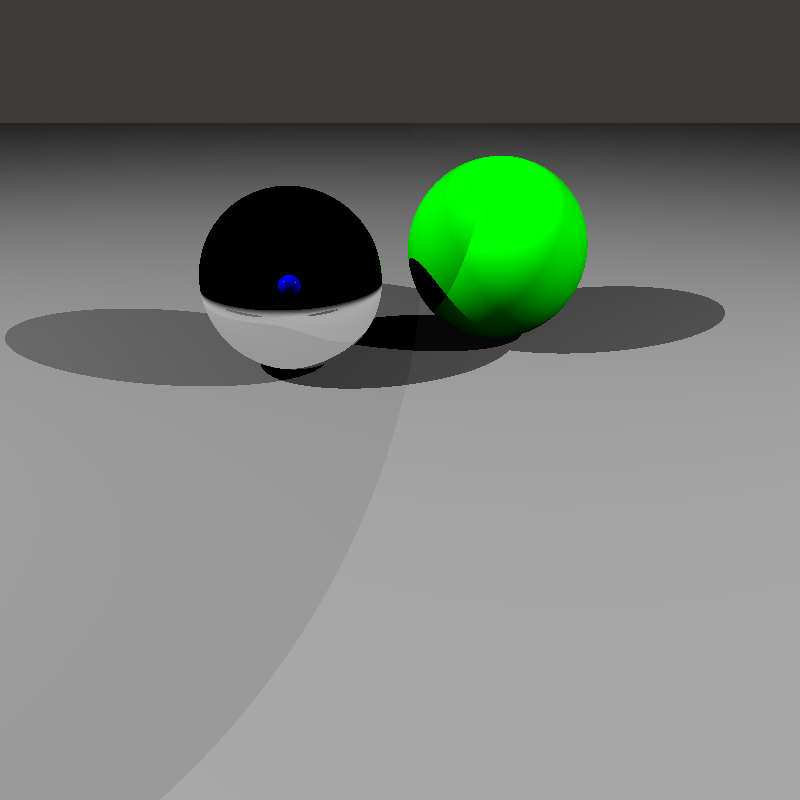
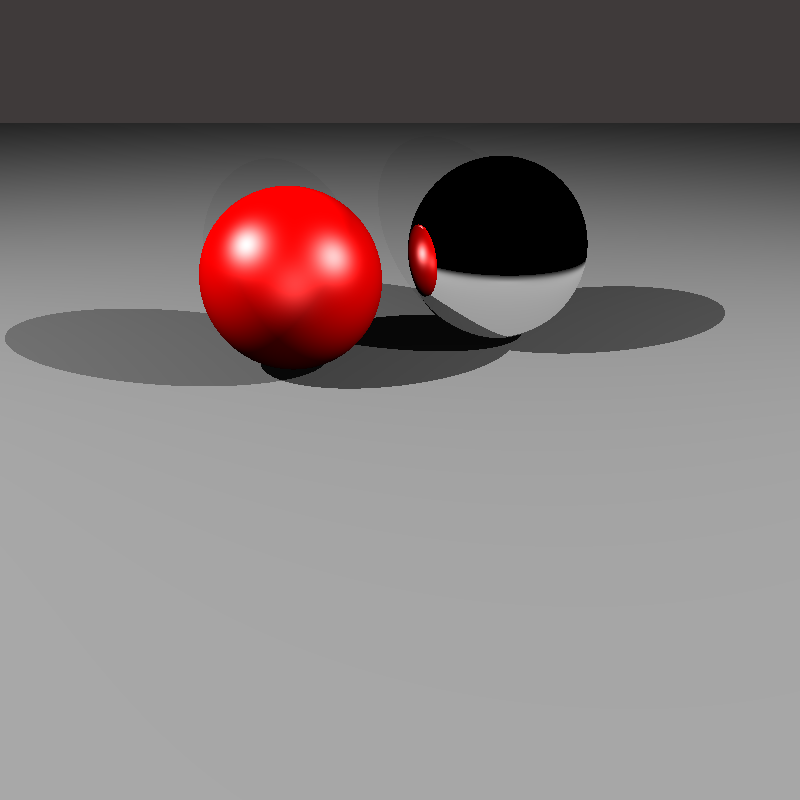
Fixed the BlinnPhong issue.

Changed region(s): [[0.25, 0.1875, 0.75, 0.4688]]

diff --git a/renderer/BlinnPhong.cpp b/renderer/BlinnPhong.cpp
@@ -26,7 +26,7 @@ sivelab::Vector3D BlinnPhong::applyShader(Ray &r, std::vector<Light *> &lights, 
         Ray sRay = Ray(shadowDir, testHp);
         sivelab::Vector3D H = (lightDir + (r.getDirection()) * -1);
         H.normalize();
-        sivelab::Vector3D Ks = specular * pow(std::max(normal.dot(H), 0.0), phongExp);
+        sivelab::Vector3D Ks = specular * pow(std::max(normal.dot(H), 0.0), phongExp)*lights[i]->getIntensity();
 
         if(!VisibilityQuery(sRay, 0.0001, DBL_MAX , shapes)){
             newColor += intensity * getColor() * sivelab::Vector3D(1, 1, 1);
